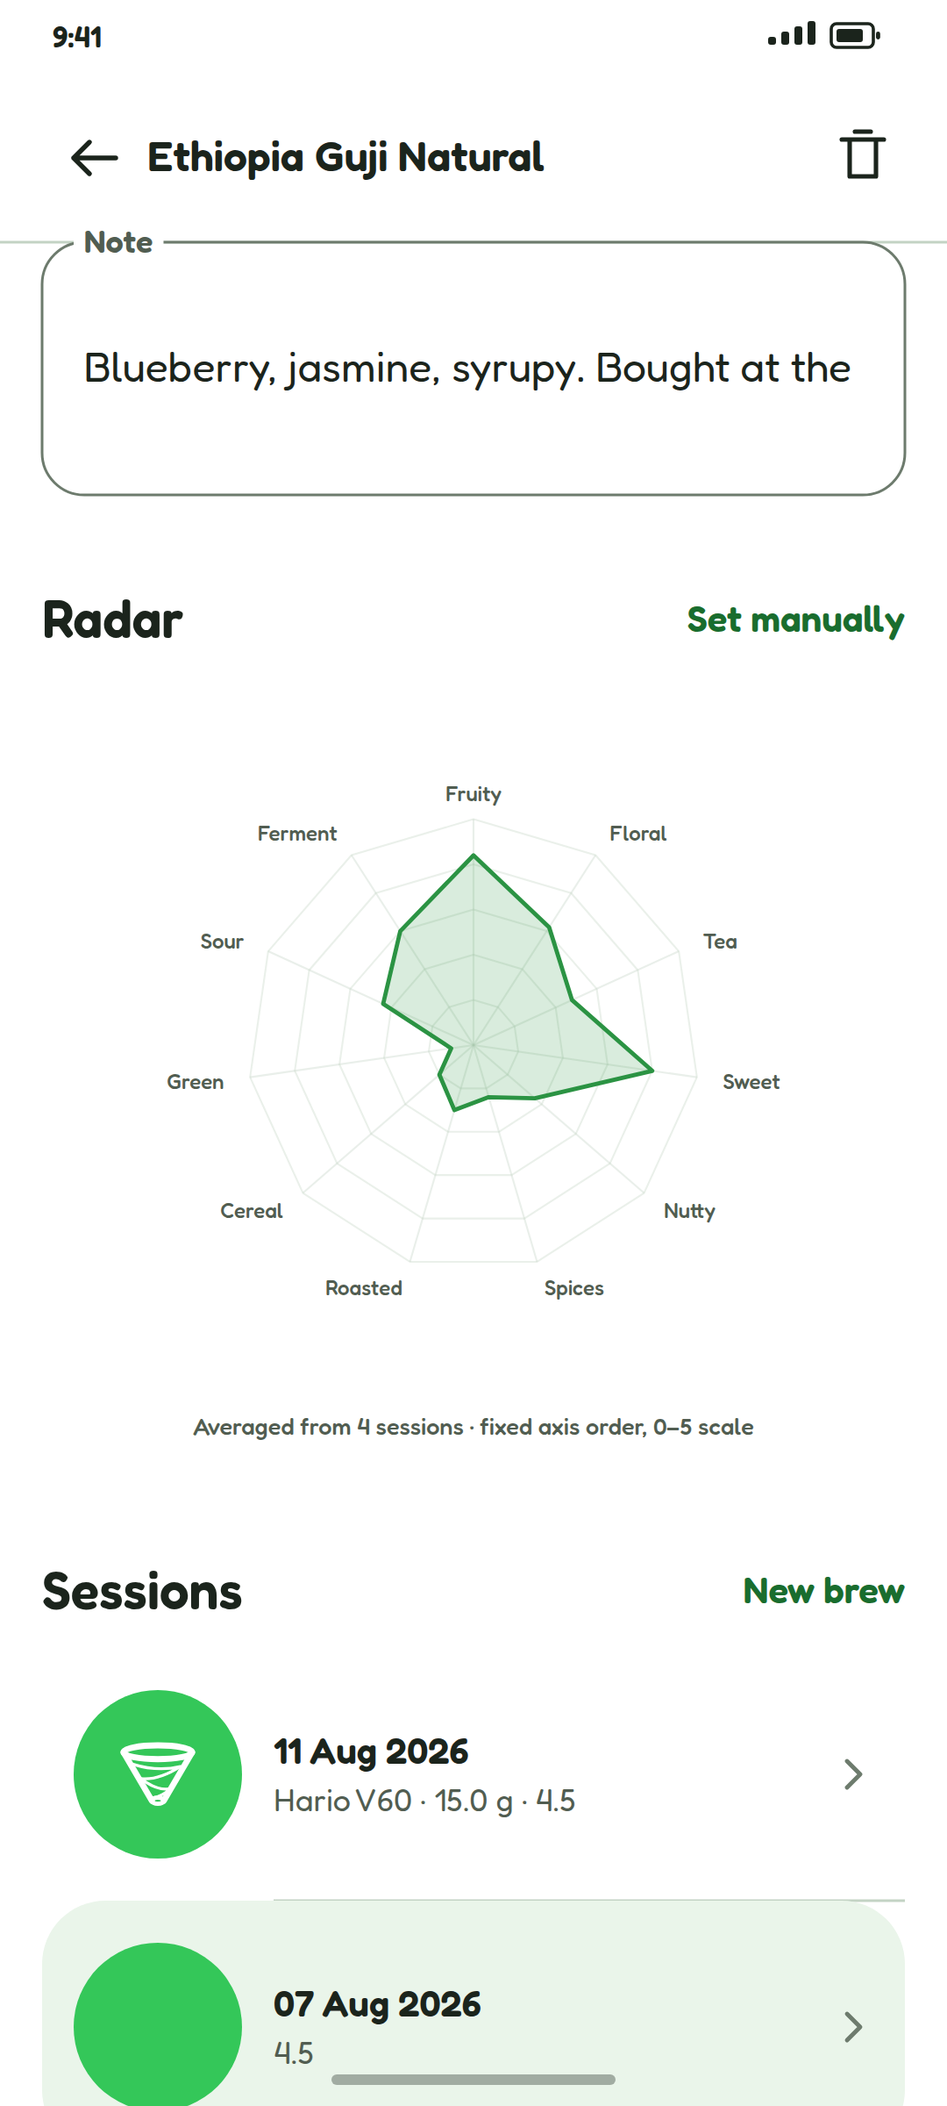
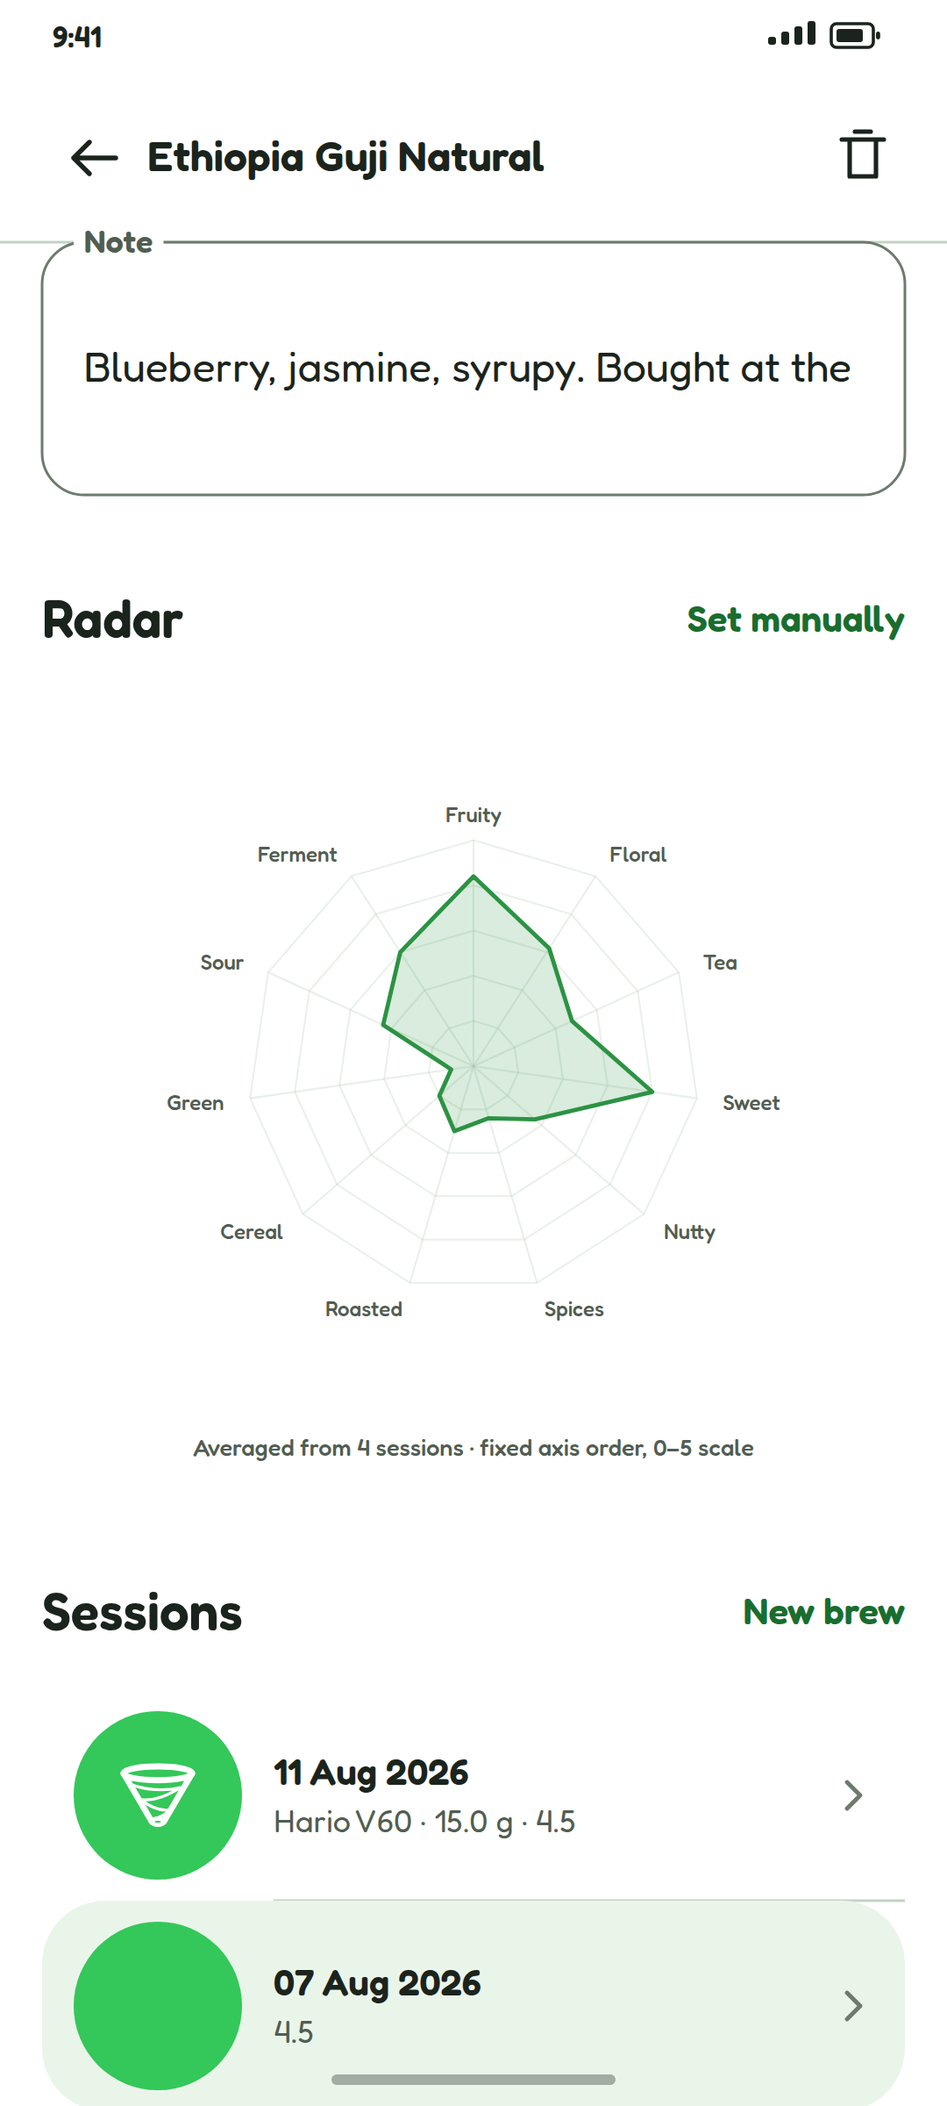
25.08.2026, update UI

diff --git a/coffee_android/plan/v1/screenshots.py b/coffee_android/plan/v1/screenshots.py
@@ -343,9 +343,22 @@ def top_bar(c: Canvas, title, back=False, title_style="titleMedium",
     return y + TOPBAR_H
 
 
+#: `SectionSpacing` -- the gap between the end of one section and the heading
+#: of the next. 20 since 2026-08-24, when it replaced five different literals
+#: across the app (4 on `+1.1`, which is what the report was about; 20, 24 and
+#: 28 elsewhere). A heading that opens a page does not pay it.
+SECTION_SPACING = 20
+
+#: `SectionHeaderGap` -- the one gap between any section heading and its
+#: content, on every page. 16 since 2026-08-24, taken from what the Images
+#: strip had always shown; before that the app had three values at once and
+#: the deck only ever drew the smallest of them.
+SECTION_GAP = 16
+
+
 def section(c: Canvas, y, text, action=None, caption=None, secondary=None):
     """SectionHeader from ui/screens/AiDisclosureScreen.kt (shared).
-    padding top 12, bottom 8; the heading on the left at `SectionHeadingSize`
+    padding top 12, then `SECTION_GAP`; the heading on the left at `SectionHeadingSize`
     (20sp -- titleMedium's role with a per-component size override, 2026-08-22),
     and on the right either a TextButton (`action`) or a muted note (`caption`,
     Home's "Average across N sessions"). Returns the y where the section's
@@ -368,7 +381,7 @@ def section(c: Canvas, y, text, action=None, caption=None, secondary=None):
     elif caption:
         c.text(W - GUTTER, y + 12 + 16, caption, "labelSmall",
                C["onSurfaceVariant"], "end")
-    return y + 12 + 25 + 8
+    return y + 12 + 25 + SECTION_GAP
 
 
 def session_card(c: Canvas, y, title, meta, trailing=None, cafe=None, cup=None):
@@ -384,7 +397,12 @@ def session_card(c: Canvas, y, title, meta, trailing=None, cafe=None, cup=None):
 
     Returns the y the next card starts at; the caller draws the inset divider
     between two of them."""
-    h = 96                       # theme/Theme.kt's ShelfCardHeight
+    # `SessionCardHeight` -- SessionGlyph (64) + ShelfCardPadV above and below.
+    # Not `ShelfCardHeight`: that is Home's number, sized for a 104dp photo
+    # tile, and this row borrowed it until 2026-08-24 at the cost of 22dp of
+    # air over a 64dp disc. Both are still "artwork plus 8dp", which is the
+    # rule the two share; the totals differ because the artwork does.
+    h = 80
     # The ground says *that* it was drunk out, the corner says *where* -- two
     # different facts, and `0.2` draws the first without the second, so the
     # flag is separable from the name. It defaults to it because in `0.3` a
@@ -871,7 +889,12 @@ def heatmap(c: Canvas, x, y, w, days, today, weeks=21):
     cell, gap, inset = 11, 2, 12
     pitch = cell + gap
     grid_left = x + inset + 30
-    grid_top = y + 32
+    # `ContributionCalendar.GridTop`, 20 since 2026-08-24 (was 32): the band
+    # holds one row of month labels drawn on the grid's shoulder, and at 32 it
+    # read as the Brewing-activity heading floating rather than as the card's
+    # padding -- this card is white on a white page and has no edge to say
+    # which. The card's own height came down with it; see `home()`.
+    grid_top = y + 20
     right = x + w - inset
     cols = min(weeks, int((right - grid_left + gap) / pitch))
     start = (today - datetime.timedelta(days=today.weekday())
@@ -1103,22 +1126,29 @@ def home():
            C["primary"], "end")
     y += 36
 
-    # No spacer before either heading: SectionHeader's own 12dp of top padding
-    # is the gap, and a Spacer on top of it is what used to push the flavour
-    # card off the fold.
+    # Both headings pay `SECTION_SPACING` -- the deck said "no spacer before
+    # either heading" until 2026-08-24 and the app disagreed with it, spacing
+    # them 24 apart. One token now, on both sides.
+    y += SECTION_SPACING
     y = section(c, y, "Brewing activity")
-    card(c, y, 140)
+    # 128, down from 140, tracking `heatmap`'s own `grid_top`. Leaving it would
+    # give back as trailing white exactly what came off the top.
+    card(c, y, 128)
     heatmap(c, GUTTER, y, W - 2 * GUTTER, BREW_DAYS, TODAY)
-    y += 140
+    y += 128
 
+    y += SECTION_SPACING
     y = section(c, y, "My flavor",
                 caption=f"Average across {len(SESSIONS)} sessions")
-    card(c, y, 260)
+    # Shorter than the chart by `RadarLabelTrim` at each end: the box's top and
+    # bottom never draw in that band, and since the caption moved onto the
+    # heading (2026-08-24) nothing else wants the corner it frees.
+    card(c, y, 260 - 2 * 20)
     # `size` is the composable's box; RadarChart's own radius is half of it
     # times 0.66, so 260 draws r=85.8. Bigger than the deck's r=60 on this
     # page, deliberately: one size across the three screens beat matching the
     # deck's per-page figures (2026-08-19).
-    radar(c, W / 2, y + 130, 260, MY_FLAVOR, labels=SHORT_AXES)
+    radar(c, W / 2, y + 130 - 20, 260, MY_FLAVOR, labels=SHORT_AXES)
     fab(c)
     gesture_bar(c)
     return c
@@ -2129,7 +2159,7 @@ def journey_profile():
     # until 2026-08-20, which made the optional half of the location as heavy
     # as the required café name above it.
     y = capsule_pair(c, y, ("Address", JOURNEY["address"]),
-                     ("City", JOURNEY["city"])) + 4
+                     ("City", JOURNEY["city"])) + SECTION_SPACING
     y = section(c, y, "The visit")
     y = capsule_pair(c, y, ("Visited on", JOURNEY["day"]),
                      ("Barista", JOURNEY["barista"])) + 16
@@ -2141,7 +2171,7 @@ def journey_profile():
            "bodyMedium", C["onSurfaceVariant"])
     # The trailing chevron: the one row on this page that leaves the app.
     c.path(f"M{W - GUTTER - 22} {y + 22} l6 6 l-6 6", stroke=C["onSurfaceVariant"], sw=1.8)
-    y += 56 + 4
+    y += 56 + SECTION_SPACING
     # NO NOTES SECTION since 2026-08-20; the Cups block carries the "what was
     # it actually like" half of a visit now.
     y = section(c, y, "Cups", action="Add a cup")
@@ -2169,7 +2199,7 @@ def journey_profile_lower():
 
     A second frame for the same screen, exactly as `0.2b` is: `+1.1` grew past
     one canvas on 2026-08-22, when its cups became `session_card()`s at
-    ShelfCardHeight instead of 38px rows, and a frame that stops just above the
+    SessionCardHeight instead of 38px rows, and a frame that stops just above the
     block it exists to document is worse than no frame. The page above this cut
     is `+1.1_journey_profile.png`."""
     c = Canvas("+1.1b Journey profile, lower")
@@ -2179,7 +2209,7 @@ def journey_profile_lower():
     y = section(c, y, "Caf\u00e9")
     y = field(c, y, "Caf\u00e9 name", JOURNEY["name"]) + 14
     y = capsule_pair(c, y, ("Address", JOURNEY["address"]),
-                     ("City", JOURNEY["city"])) + 4
+                     ("City", JOURNEY["city"])) + SECTION_SPACING
     y = section(c, y, "The visit")
     y = capsule_pair(c, y, ("Visited on", JOURNEY["day"]),
                      ("Barista", JOURNEY["barista"])) + 16
@@ -2190,7 +2220,7 @@ def journey_profile_lower():
     c.text(GUTTER + 44, y + 42, f"Search for {JOURNEY['address']}, {JOURNEY['city']}",
            "bodyMedium", C["onSurfaceVariant"])
     c.path(f"M{W - GUTTER - 22} {y + 22} l6 6 l-6 6", stroke=C["onSurfaceVariant"], sw=1.8)
-    y += 56 + 4
+    y += 56 + SECTION_SPACING
     y = section(c, y, "Cups", action="Add a cup")
     for i, (name, meta) in enumerate(CUPS):
         if i:

diff --git a/coffee_android/plan/v1/design-spec.md b/coffee_android/plan/v1/design-spec.md
@@ -199,7 +199,8 @@ role because the next rung up, `titleLarge` at 22sp, is what the axis's app
 bars draw their titles with, and a heading at exactly the screen title's size
 flattens the hierarchy instead of sharpening it. The constant is
 `SectionHeadingSize` beside the composable; `screenshots.py`'s `section()`
-carries the same number.
+carries the same number, and `SECTION_GAP` beside it carries
+`SectionHeaderGap` (§4.2).
 
 **Three app bars moved up with it.** `+2.2a` Privacy, `+2.2b` How we use AI and
 `0.1` Add bean drew their titles at `titleMedium` while the other six used
@@ -258,17 +259,80 @@ is the deck's own number and Compose clamps to half the shorter side anyway.
 | Token | Value | Meaning |
 | --- | --- | --- |
 | `Gutter` | 16dp | the page gutter — **every** scrolling column pads by this |
-| `ShelfCardHeight` | 96dp | one height for every card on Home and Sessions |
-| `ShelfTile` | 80dp | the artwork inside that card |
+| `SectionHeaderGap` | 16dp | every section heading to its content, on every page |
+| `SectionSpacing` | 20dp | the end of one section to the next section's heading |
+| `ShelfCardHeight` | 124dp | Home's bean card: `ShelfTile` plus `ShelfCardPadV` above and below |
+| `ShelfTile` | 104dp | the artwork inside that card |
+| `SessionCardHeight` | 80dp | a brew row: `SessionGlyph` plus the same padding |
+| `SessionGlyph` | 64dp | the dripper disc inside that row |
 | `ShelfCardPadH` / `PadV` | 12dp / 8dp | card padding |
+| `RadarLabelTrim` | 20dp | label band a *static* radar's box may stop paying for |
+| `ContributionCalendarHeight` | 169dp | derived, not chosen — see `GridTop` |
 
 `Gutter` is not a Material metric and not a per-screen decision: it is why a
 card edge lines up with a section heading lines up with a divider on every
 screen. It was 20dp in the first build, which compounded with the type scale
 into a measurable density gap.
 
-`ShelfCardHeight` exists so Home's bean card and Sessions' brew card stay the
-same size **by construction** rather than by two numbers that happen to agree.
+**`SectionHeaderGap` is one number for the whole app** (2026-08-24, direct
+product request: "unify all section-title margin in all the pages, use the
+Images section margin by default"). 16dp, because that is what the images strip
+had always shown. `SectionHeader` emits it itself; **callers must not add a
+`Spacer` after a heading**, which is how three different gaps came to exist —
+8dp from the composable, 16 wherever a caller added its own, and 20 on any
+heading carrying a verb. That last one was invisible in the source: a
+`TextButton` is 48dp tall (Material 3 floors a clickable `Surface` at the
+minimum interactive size) against a 24dp text box, and the Row centres both, so
+an action left 12dp of dead space under its heading. `SectionHeader` now
+*subtracts* that slack from the gap rather than letting it add to it — the
+button keeps its full touch target and "Sessions" ends the same distance above
+its list as "Images" does above its photographs. It is measured from the text
+box, not the ink, so the gap cannot depend on whether a heading happens to end
+in a descender.
+
+**`RadarLabelTrim` is a layout trim, never a drawing one** (2026-08-24). The
+chart's box is square because the net is round, and the net's radius reserves
+34% of the half-box for the label ring. Horizontally that band is spent in
+full — "Green" sits at nine o'clock and needs every dp of it. Vertically it is
+spent on one 9sp word, so the topmost label's ink starts ~27dp below the box's
+own top edge, and the reader sees that as the heading floating above the chart.
+A static call site may therefore give the box a height 2×`RadarLabelTrim`
+shorter and let the chart overflow it: the chart still measures and draws at
+its declared `size`, and what the card clips is white space. Nothing in
+`drawRadar` changes, which is what keeps `ShareCard`'s copy of it in step.
+
+**The brew form's chart is the one that cannot have it.** It **zooms and
+carries notes** — either puts ink where the trim assumes white — so it pays the
+full band and gives back only its card's 12dp of top padding.
+
+Home's took two attempts, and the reason is worth keeping. The first try
+failed: while "Average across N sessions" was pinned inside that card's
+top-left corner, pulling the chart up 20dp brought "Ferment" onto the caption's
+line. **The trim and a corner label want the same 20dp.** The caption moved to
+the heading's own `caption` slot — which is what `SectionHeader` documents that
+slot for, and where `screenshots.py` had been drawing it all along, so the app
+was the half that had wandered — and only then was the band actually free.
+
+**`SectionSpacing` is the other half of a section's rhythm** (2026-08-24,
+direct product report: on `+1.1` "the margin between section is not being
+respected"). It was five numbers — Home 24, Privacy / How-we-use-AI / the brew
+form 20, Profile 28, the bean panel 24, and **`+1.1` 4**, which is why "The
+visit" sat almost on the address row while every other page gave its headings
+room. Twenty now, everywhere. Unlike `SectionHeaderGap` it stays on the
+callers rather than folding into `SectionHeader`: a heading that *opens* a page
+has nothing above it to be spaced from (`+1.1`'s "Café", `0.2`'s "Basics"), and
+a composable that always paid it would indent those for nothing. What the token
+buys is that one grep finds every one of them.
+
+**`ShelfCardHeight` and `SessionCardHeight` share a rule, not a number**
+(corrected 2026-08-24). Both are *their own artwork plus `ShelfCardPadV` above
+and below*, which is what makes Home's bean card and a brew row the same kind
+of object. The brew row used to literally *be* `ShelfCardHeight`, on the
+reasoning that one constant keeps them in step — but that constant is sized for
+a 104dp photo tile and a brew row's artwork is a 64dp disc, so it bought 22dp
+of empty space above the disc and 22 below, on a row with no card colour to
+make that read as padding. Measured on a device, it put the Sessions heading
+51dp above its own list against the images strip's 16.
 
 ### 4.3 Window insets — the one rule Paparazzi cannot catch
 
@@ -884,6 +948,24 @@ from**), "See all N beans", **Brewing activity** contribution calendar, and
 **My flavor** — an eleven-axis radar averaged across every session, labelled
 with the session count.
 
+**"Average across N sessions" is the heading's caption, not a corner label**
+(2026-08-24). It spent a week pinned inside the radar card's top-left, so that
+it read as the chart's own caption rather than a page-level line; that corner is
+also the only place `RadarLabelTrim` (§4.2) can give back, and while the caption
+held it this heading sat 41dp above its chart. `SectionHeader`'s `caption` slot
+is where the composable documents it belonging and where the deck had been
+drawing it, so the move put the two back in step and let the chart come up.
+Absent, not blank, when nobody has scored anything.
+
+**The calendar's card is `ContributionCalendarHeight`, and that is derived**
+(§4.2). The component draws in the card's own coordinates and takes no padding
+modifier, so the card has to track its geometry exactly rather than be a guess.
+Its `GridTop` came down from 32 to 20 on 2026-08-24 and the card from 184 to
+169 with it: at 32 × `Enlarge` the band above the month row was 41.6dp of card
+for one 11sp line, and against a white page with no card edge to say otherwise
+the reader saw it as the Brewing-activity heading floating rather than as the
+calendar's padding.
+
 **A bean that came from a café is not on this shelf** (2026-08-22, direct
 product request). `+1.2` writes a real `BeanEntity` so a cup has something to
 belong to (§8.6c), but that row records *what you drank out*, not a bag you
@@ -959,6 +1041,15 @@ The largest screen in the app (1400 lines). One bean, created or edited.
 
 - **Photo hero** (`PhotoHeroPage`) — the bag photo, draggable panel, Images
   strip, zoomable viewer.
+- **Header** — the bean's name at 26sp, then `BeanHeaderSummary` (§8.8), and
+  **no rule under it** (2026-08-24, direct product report: "the header lower
+  boundary line is not removed"). The hairline there was left over from when
+  this page had a real app bar and had stopped meaning anything: the panel is
+  pulled up over a photograph with its own drag handle and rounded corners, so
+  the header is already bounded by the shape it sits in, and a line under it
+  read as chrome divided from content on a page that has no chrome there — the
+  same argument that took `TopBarDivider` off `+1.1` the same day. What
+  separates the header from the first section is `SectionSpacing` (§4.2).
 - **Scan card** — "Scan the label to update these fields", with offline and
   consent-blocked variants.
 - **Fields** — name as an outlined box; origin, variety, altitude, roaster,
@@ -1186,7 +1277,9 @@ same brew looked like two kinds of record depending on which screen you
 reached it from. One composable now, with the two callers varying **the two
 strings and nothing else**: History titles the row with the bean and trails
 the date, while `0.2` is already one bean's page, so the date is the title and
-there is nothing left to trail. Same `ShelfCardHeight` as Home's shelf card,
+there is nothing left to trail. `SessionCardHeight` — the same
+*construction* as Home's shelf card and, since 2026-08-24, not the same number
+(§4.2) —
 because a brew and a bean are deliberately the same object.
 
 Every brew across every bean, newest first, with the dripper glyph at 64dp,

diff --git a/coffee_android/plan/v1/coupling-spec.md b/coffee_android/plan/v1/coupling-spec.md
@@ -249,6 +249,12 @@ backwards (`AiGateway.kt:103`). Do not "fix" it into the `call()` path.
 | A screen's Scaffold | Keep it **per page, inside the pager** — hoisting it applies window insets twice (`Axis.kt:99`) | device only |
 | A composable's look | Its golden(s). `grep -rn 'import app.coffeecan.*<Name>' app/src/test/` names the test that owns it | `V2` |
 | A repository method a screen uses | Mark it `open` and add it to `TestFakes.kt` — screenshot tests substitute the repository (`CoffeeCanApp.kt:45`) | `V2` |
+| `SectionSpacing`, or where a section is spaced from the one above it | **`plan/v1/screenshots.py`'s `SECTION_SPACING`**. And keep it on the callers: folding it into `SectionHeader` would indent every page-opening heading by 20dp for nothing. `grep -rn 'Spacer(Modifier.height([0-9]*\.dp))' --include=*.kt app/src/main` next to a `SectionHeader` is the check — five loose literals is what this token replaced | `V1b`, `V2` |
+| `ContributionCalendar`'s `GridTop`, `Enlarge`, or its row pitch | **`ContributionCalendarHeight`**, which is derived from all three, and `screenshots.py`'s `heatmap()` `grid_top` plus `home()`'s card height — the deck draws both by hand in its own unscaled coordinates. The component owns the whole card interior and takes **no padding modifier**, so a height that stops tracking it shows up as trailing white, not as a clipped legend, and nothing fails | `V1b`, `V2` |
+| `SectionHeaderGap`, or `SectionHeader`'s own padding | **`plan/v1/screenshots.py`'s `SECTION_GAP`**, which `section()` returns. And check no caller has re-grown a `Spacer` after a heading: `grep -rn -A1 'SectionHeader(' --include=*.kt app/src/main \| grep Spacer` must be empty — the composable owns the gap, and a caller adding its own is exactly how the app came to have three different ones | `V1b`, `V2` |
+| The `action`/`secondaryAction` slot, or what `SectionHeader` puts in it | `SectionActionSlack` assumes a **48dp** `TextButton` against a **24dp** text box, and subtracts the difference from the gap. Swap the button for anything of another height and every heading with a verb silently drifts from every heading without one — the failure this constant exists to stop, and one no golden catches on a heading whose action happens to be absent in the fixture | `V2` |
+| `SessionGlyph`, `ShelfTile`, or `ShelfCardPadV` | The height derived from it — `SessionCardHeight` follows `SessionGlyph`, `ShelfCardHeight` follows `ShelfTile`, and **each is `artwork + 2 * ShelfCardPadV`**. Do not re-point one at the other's total: they are the same *rule*, not the same number, and conflating them is what put 44dp of air in a brew row. Also `screenshots.py`'s `session_card` `h`, which draws the number by hand | `V1b`, `V2` |
+| `RadarLabelTrim`, or a radar call site's zoom/notes | The trim assumes **white** at the box's top and bottom edges, so a call site with `zoomable = true` or a non-empty `noteLabels` must not use it — the brew form's is the one that cannot. **Nor may anything else be pinned in that box's top or bottom corners**: Home's "Average across N sessions" was, and the trim brought "Ferment" onto its line until the caption moved to the heading's `caption` slot. Trim and corner label want the same 20dp; only one may have it | `V2` — *and look at the frame, since a clipped label still renders as a plausible chart* |
 | `ImagesPerLine`, `ImageGap`, or `ImagesStrip`'s tile arithmetic | **`plan/v1/screenshots.py`'s `image_tile()`**, which divides `W`/`GUTTER` the same way and would otherwise draw a tile size no handset produces. The drag's step pitch is derived from the same number *inside* the composable — if you reintroduce a constant there, a reorder displaces at the wrong distance on every screen but the one it was tuned on | `V1`, `V1b`, `V2` |
 | A top bar to or from the frosted treatment (`axisChromeScrim` + `axisChromeSheen`, `Color.Transparent`) | **Drop `TopBarDivider`** — the graded scrim replaces the rule, and drawing both is a soft edge with a hard one on top. And spend the bar's height as a **spacer inside the scroll**, never as `.padding(padding)`: top padding fills the strip behind the bar with the page's own background, so the frost lands on a flat colour and reads as solid again. `JourneysScreen` (as `contentPadding`) and `JourneyDetailScreen` (as a `Spacer`) are the two worked examples | `V2` |
 | Which of `0.31`'s three paths draws `BeanDetailsSection` | `BrewSessionScreen.beanNamed` is read **once, at hydration, off the stored row** — `beanDraft.name` changes as the user types and would tear the block off mid-word. The `cup ||` in front of it is load-bearing: `photosOutsideFold` is a cup's only door to a photograph. The deck mirrors the split — `screenshots.py`'s `bean_block` for the blank-bean frames, `bean_summary` for `0.31` | `V1b`, `V2` |
